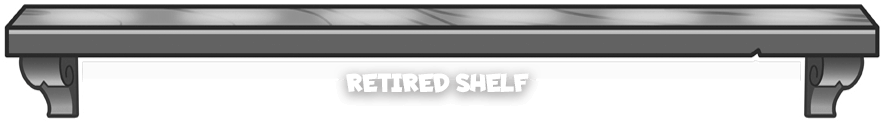
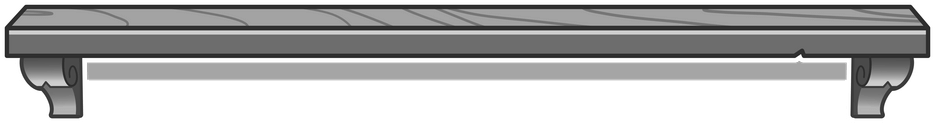
APP-12: Update images and positioning

diff --git a/src/screens/ParkScreen.tsx b/src/screens/ParkScreen.tsx
@@ -179,7 +179,12 @@ export default function ParkScreen({ route }) {
                   }}
                 >
                   <View style={{ paddingBottom: 16 }}>
-                    <View style={{ position: 'relative', height: 185 }}>
+                    <View
+                      style={{
+                        position: 'relative',
+                        height: 185,
+                      }}
+                    >
                       <View
                         style={{
                           position: 'absolute',
@@ -191,38 +196,59 @@ export default function ParkScreen({ route }) {
                           justifyContent: 'center',
                         }}
                       >
-                        <Image
-                          source={silver}
+                        <View
                           style={{
-                            width: 90,
-                            height: 95,
-                            opacity:
-                              currentPark.park_coins_count >= 50 ? 1 : 0.6,
+                            flex: 1,
+                            alignItems: 'flex-end',
                           }}
-                        />
-                        <Image
-                          source={gold}
+                        >
+                          <Image
+                            source={silver}
+                            style={{
+                              width: 90,
+                              height: 95,
+                              opacity:
+                                currentPark.park_coins_count >= 50 ? 1 : 0.6,
+                              marginRight: 16,
+                            }}
+                          />
+                        </View>
+                        <View
                           style={{
-                            width: 100,
-                            height: 140,
-                            marginLeft: 16,
-                            opacity:
-                              currentPark.park_coins_count >= 100 ? 1 : 0.6,
+                            flex: 1,
+                            alignItems: 'center',
                           }}
-                        />
-                        <Image
-                          source={bronze}
+                        >
+                          <Image
+                            source={gold}
+                            style={{
+                              width: 100,
+                              height: 140,
+                              opacity:
+                                currentPark.park_coins_count >= 100 ? 1 : 0.6,
+                            }}
+                          />
+                        </View>
+                        <View
                           style={{
-                            width: 70,
-                            height: 75,
-                            marginLeft: 16,
-                            opacity:
-                              currentPark.park_coins_count >= 12 ? 1 : 0.6,
+                            flex: 1,
+                            alignItems: 'flex-start',
                           }}
-                        />
+                        >
+                          <Image
+                            source={bronze}
+                            style={{
+                              width: 70,
+                              height: 75,
+                              opacity:
+                                currentPark.park_coins_count >= 12 ? 1 : 0.6,
+                              marginLeft: 16,
+                            }}
+                          />
+                        </View>
                       </View>
                       <Image
-                        source={require('../../assets/images/screens/park/trophyshelf.png')}
+                        source={require('../../assets/images/screens/park/shelf.png')}
                         contentFit="contain"
                         style={{
                           width: '100%',
